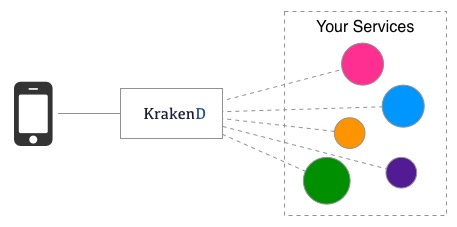
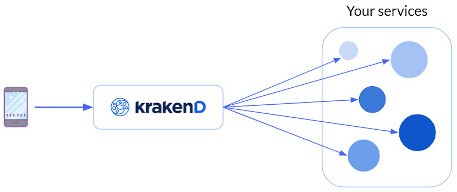
Style Open Source images

diff --git a/open-source/index.html b/open-source/index.html
@@ -2,11 +2,11 @@
 Securing Your Microservices and APIs: The KrakenD Way</a></p><div class=relative><nav class="max-w-7xl mx-auto lg:flex py-6 items-center justify-between"><div class="ml-4 xl:ml-0"><a href=/ title=Home><img src=/images/logo-krakend.svg alt="KrakenD Logo" loading=lazy width=180 height=34></a></div><div class="hidden ml-12 mr-4 xl:mr-0 lg:flex-grow lg:flex lg:justify-between lg:space-x-8" id=navbarMenu><ul class="lg:flex lg:space-x-8 font-medium xl:text-lg whitespace-nowrap z-50"><li><a class="hover:text-denim-600 text-gray-700" href=/open-source/>Open Source</a></li><li><a class="hover:text-denim-600 text-gray-700" href=/enterprise/>Enterprise</a></li><li><a class="hover:text-denim-600 text-gray-700" href=https://www.krakend.io/case-study/>Case studies</a></li><li><a class="hover:text-denim-600 text-gray-700" href=/docs/overview/>Docs</a></li><li class="nav-item dropdown"><a class="hover:text-denim-600 text-gray-700" href=# class="nav-link dropdown-toggle" data-toggle=dropdown>Resources<svg xmlns="http://www.w3.org/2000/svg" class="h-5 w-5 inline" fill="none" viewBox="0 0 24 24" stroke="currentcolor"><path stroke-linecap="round" stroke-linejoin="round" stroke-width="2" d="M19 9l-7 7-7-7"/></svg></a><ul class="hidden absolute ml-4 divide-y rounded-lg shadow dropdown-menu bg-white"><li class="py-1 px-6"><a class="hover:text-denim-600 text-gray-700" href=/features/>Open Source VS Enterprise</a></li><li class="py-1 px-6"><a class="hover:text-denim-600 text-gray-700" href=/blog/>Blog</a></li><li class="py-1 px-6"><a class="hover:text-denim-600 text-gray-700" href=/support/>Support</a></li><li class="py-1 px-6"><a class="hover:text-denim-600 text-gray-700" href=https://designer.krakend.io>Designer (Config UI)</a></li><li class="py-1 px-6"><a class="hover:text-denim-600 text-gray-700" href=/partners/>Partners</a></li><li class="py-1 px-6"><a class="hover:text-denim-600 text-gray-700" href=/team/>About us</a></li></ul></li></ul><ul class="hidden lg:flex lg:space-x-4 text-sm font-medium whitespace-nowrap"><li><a class="text-gray-700 hover:text-denim-600" href=/download/><svg xmlns="http://www.w3.org/2000/svg" class="h-5 w-5 inline" viewBox="0 0 20 20" fill="currentcolor"><path fill-rule="evenodd" d="M3 17a1 1 0 011-1h12a1 1 0 110 2H4a1 1 0 01-1-1zm3.293-7.707a1 1 0 011.414.0L9 10.586V3a1 1 0 112 0v7.586l1.293-1.293a1 1 0 111.414 1.414l-3 3a1 1 0 01-1.414.0l-3-3a1 1 0 010-1.414z" clip-rule="evenodd"/></svg>Downloads</a></li><li><a class="btn -mt-3 bg-denim-800 hover:bg-denim-500 text-white" href=/enterprise/#contact-sales><svg xmlns="http://www.w3.org/2000/svg" class="h-5 w-5 inline" fill="none" viewBox="0 0 24 24" stroke="currentcolor"><path stroke-linecap="round" stroke-linejoin="round" stroke-width="2" d="M8 7V3m8 4V3m-9 8h10M5 21h14a2 2 0 002-2V7a2 2 0 00-2-2H5A2 2 0 003 7v12a2 2 0 002 2z"/></svg>Request a Demo</a></li></ul></div><button class="print:hidden absolute right-4 top-2 lg:hidden p-3 rounded-lg border border-gray-100 navbar-toggler" type=button data-toggle=collapse data-target=#navbarMenu aria-controls=navbarMenu aria-expanded=false aria-label="Toggle navigation"><svg xmlns="http://www.w3.org/2000/svg" class="h-6 w-6 inline" fill="none" viewBox="0 0 24 24" stroke="currentcolor"><path stroke-linecap="round" stroke-linejoin="round" stroke-width="2" d="M4 6h16M4 12h16M4 18h16"/></svg></button></nav></div><div class="bg-gradient-to-r from-denim-800 to-denim-500"><div class="max-w-7xl mx-auto px-4 py-4 lg:pt-6 lg:py-8"><div class=lg:flex><div class="lg:flex-auto max-w-4xl"><h1 class="text-5xl font-medium text-white tracking-tight leading-snug">Open-source API Gateway</h1><h2 class="mt-4 text-2xl text-denim-200 leading-normal max-w-3xl">Founded on top of the industry&rsquo;s best practices.<br>Linear scalability at the lowest operational cost</h2></div></div></div></div><div class="content-body page-open-source"><section class="feature-block zebra"><div class="container text-lg"><h2>Ultra-high performance open source API Gateway</h2><p>KrakenD is an extensible, ultra-high performance API Gateway that helps you effortlessly adopt microservices and secure communications. KrakenD is easy to operate and run and scales out without a single point of failure.</p><ul class="mt-8 sm:flex sm:space-x-8 sm:space-y-0 space-y-2 justify-center font-bold text-shadow-none"><li><a class="btn bg-denim-500 text-white shadow hover:bg-denim-800" href=https://www.krakend.io/download/ role=button><svg xmlns="http://www.w3.org/2000/svg" fill="none" viewBox="0 0 24 24" stroke="currentcolor"><path stroke-linecap="round" stroke-linejoin="round" stroke-width="2" d="M4 16v1a3 3 0 003 3h10a3 3 0 003-3v-1m-4-4-4 4m0 0-4-4m4 4V4"/></svg>Get KrakenD v2.4.3</a></li><li><a class="btn bg-white hover:text-denim-800 shadow" href=/support/><svg xmlns="http://www.w3.org/2000/svg" class="h-24 w-24 lg:h-32 lg:w-32" fill="none" viewBox="0 0 24 24" stroke="currentcolor"><path stroke-linecap="round" stroke-linejoin="round" stroke-width="2" d="M18.364 5.636l-3.536 3.536m0 5.656 3.536 3.536M9.172 9.172 5.636 5.636m3.536 9.192-3.536 3.536M21 12A9 9 0 113 12a9 9 0 0118 0zm-5 0a4 4 0 11-8 0 4 4 0 018 0z"/></svg>Get Support</a></li></ul></div></section><section class=feature-block><div class="container text-lg"><div class="md:grid md:grid-cols-2 gap-4 items-center"><div><h2>A single API that exposes many</h2><h3>Reduce the hassle of dealing with every microservice</h3><p>Move from dealing with every particular microservice to talking to a single backend
 for frontend that handles the interaction with all your microservices. Configure
 those services just by editing a simple json file (or using the GUI) and start
-fetching and sending data to them.</p></div><div><img src=/images/phone-to-krakend.jpg alt loading=lazy width=457 height=227></div></div></div></section><section class=feature-block><div class="container text-lg"><div class="md:grid md:grid-cols-2 gap-4 items-center"><div><img src=/images/krakend-merge.png alt loading=lazy width=467 height=186></div><div><h2>Merge the content of several APIs into single endpoints</h2><p>KrakenD offers an API that feeds from as many APIs or services you need. Define in
+fetching and sending data to them.</p></div><div><img src=/images/phone-to-krakend.jpg alt loading=lazy width=457 height=192></div></div></div></section><section class=feature-block><div class="container text-lg"><div class="md:grid md:grid-cols-2 gap-4 items-center"><div><img src=/images/krakend-merge.png alt loading=lazy width=457 height=240></div><div><h2>Merge the content of several APIs into single endpoints</h2><p>KrakenD offers an API that feeds from as many APIs or services you need. Define in
 every endpoint that you create what is the data you will need and it will be automatically merged for you. You can
 even control how to merge it. Merge content from public external services and internal microservices. Mix it all!</p></div></div></div></section><section class=feature-block><div class="container text-lg"><div class="md:grid md:grid-cols-2 gap-4 items-center"><div><h2 class=feature>Get exactly what you want</h2><h3>Expose only the fields you need in your use cases and transform them at will</h3><p>Put KrakenD in front your services and create endpoints that expose exactly the fields you decide for the
 different use cases need, using white-listing or black-listing. Remove unwanted or sensitive data, rename fields,
-encapsulate different API responses into new attributes. Create consistency for the consumer.</p></div><div><img src=/images/response-blur.png alt loading=lazy width=344 height=206 class="rounded-lg shadow"></div></div></div></section><section class=feature-block><div class="container text-lg"><div class="md:grid md:grid-cols-2 gap-4 items-center"><div><img src=/images/builder_screenshot.png alt loading=lazy width=1996 height=1144></div><div><h2>No coding. Visual editing of the API</h2><h3>Or edit a JSON file</h3><p>The use of KrakenD requires no coding because all data transformations, picking, merging, definitions, etc is
+encapsulate different API responses into new attributes. Create consistency for the consumer.</p></div><div><img src=/images/response-blur.png alt loading=lazy width=1017 height=395 class=rounded-lg></div></div></div></section><section class=feature-block><div class="container text-lg"><div class="md:grid md:grid-cols-2 gap-4 items-center"><div><img src=/images/builder_screenshot.png alt loading=lazy width=1996 height=1144></div><div><h2>No coding. Visual editing of the API</h2><h3>Or edit a JSON file</h3><p>The use of KrakenD requires no coding because all data transformations, picking, merging, definitions, etc is
 declared in a single configuration file. All the API gateway behavior can be edited by hand or using the
 KrakenDesigner, a GUI that allows you visually design your API from scratch or resume an existing one.</p></div></div></div></section><section class=feature-block><div class="container text-lg"><div class="md:grid md:grid-cols-2 gap-4 items-center"><div><h2 class=feature>Unprecedented throughput</h2><h3>Even with transformations</h3><p>KrakenD has been built with performance in mind. Expect a massive performance and
 speed in every running instance. KrakenD takes advantage of the concurrency patterns of the Go language and
